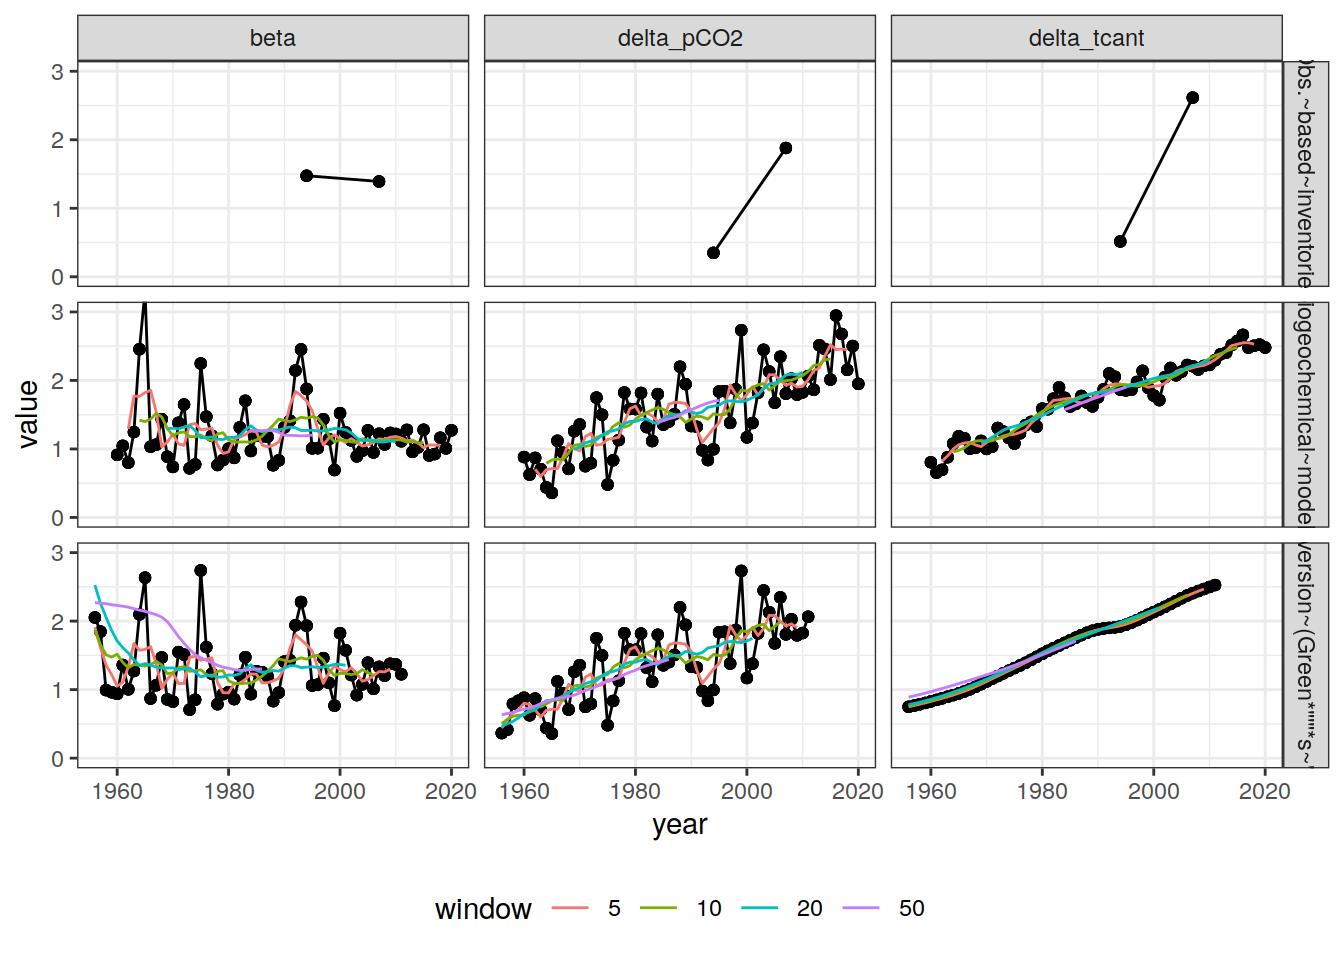
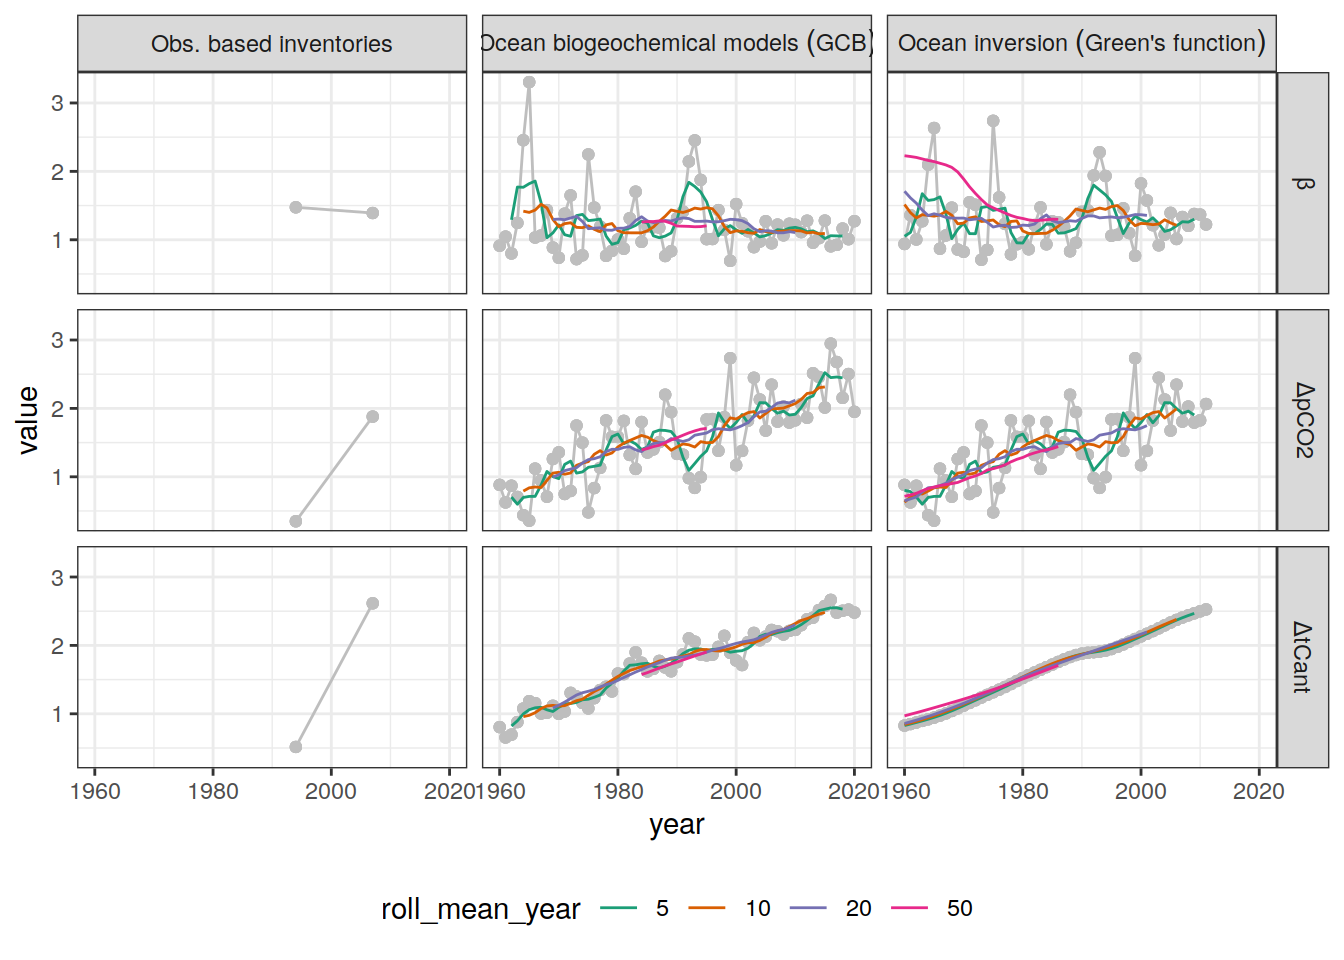
Build site.

diff --git a/docs/interior_storage.html b/docs/interior_storage.html
@@ -378,7 +378,7 @@ div.tocify {
 
 <h1 class="title toc-ignore">Ocean interior storage</h1>
 <h4 class="author">Jens Daniel Müller</h4>
-<h4 class="date">03 May, 2022</h4>
+<h4 class="date">10 May, 2022</h4>
 
 </div>
 
@@ -403,7 +403,7 @@ div.tocify {
 <div class="tab-content">
 <div id="summary" class="tab-pane fade in active">
 <p>
-<strong>Last updated:</strong> 2022-05-03
+<strong>Last updated:</strong> 2022-05-10
 </p>
 <p>
 <strong>Checks:</strong> <span class="glyphicon glyphicon-ok text-success" aria-hidden="true"></span> 7 <span class="glyphicon glyphicon-exclamation-sign text-danger" aria-hidden="true"></span> 0
@@ -494,16 +494,16 @@ This reproducible <a href="https://rmarkdown.rstudio.com">R Markdown</a> analysi
 <div class="panel panel-default">
 <div class="panel-heading">
 <p class="panel-title">
-<a data-toggle="collapse" data-parent="#workflowr-checks" href="#strongRepositoryversionstrongahrefhttpsgithubcomjensdanielmuelleroceancarbonsinkreviewtree8a99630607800fb4d62397154561920e9c61a00ctargetblank8a99630a"> <span class="glyphicon glyphicon-ok text-success" aria-hidden="true"></span> <strong>Repository version:</strong> <a href="https://github.com/jens-daniel-mueller/ocean_carbon_sink_review/tree/8a99630607800fb4d62397154561920e9c61a00c" target="_blank">8a99630</a> </a>
+<a data-toggle="collapse" data-parent="#workflowr-checks" href="#strongRepositoryversionstrongahrefhttpsgithubcomjensdanielmuelleroceancarbonsinkreviewtree472c2c1f393f71276952f22d1f2dc399d1948328targetblank472c2c1a"> <span class="glyphicon glyphicon-ok text-success" aria-hidden="true"></span> <strong>Repository version:</strong> <a href="https://github.com/jens-daniel-mueller/ocean_carbon_sink_review/tree/472c2c1f393f71276952f22d1f2dc399d1948328" target="_blank">472c2c1</a> </a>
 </p>
 </div>
[2 lines of base64/hex data omitted]
 <div class="panel-body">
 <p>
 Great! You are using Git for version control. Tracking code development and connecting the code version to the results is critical for reproducibility.
 </p>
 <p>
-The results in this page were generated with repository version <a href="https://github.com/jens-daniel-mueller/ocean_carbon_sink_review/tree/8a99630607800fb4d62397154561920e9c61a00c" target="_blank">8a99630</a>. See the <em>Past versions</em> tab to see a history of the changes made to the R Markdown and HTML files.
+The results in this page were generated with repository version <a href="https://github.com/jens-daniel-mueller/ocean_carbon_sink_review/tree/472c2c1f393f71276952f22d1f2dc399d1948328" target="_blank">472c2c1</a>. See the <em>Past versions</em> tab to see a history of the changes made to the R Markdown and HTML files.
 </p>
 <p>
 Note that you need to be careful to ensure that all relevant files for the analysis have been committed to Git prior to generating the results (you can use <code>wflow_publish</code> or <code>wflow_git_commit</code>). workflowr only checks the R Markdown file, but you know if there are other scripts or data files that it depends on. Below is the status of the Git repository when the results were generated:
@@ -551,6 +551,40 @@ Message
 </tr>
 </thead>
 <tbody>
+<tr>
+<td>
+Rmd
+</td>
+<td>
+<a href="https://github.com/jens-daniel-mueller/ocean_carbon_sink_review/blob/472c2c1f393f71276952f22d1f2dc399d1948328/analysis/interior_storage.Rmd" target="_blank">472c2c1</a>
+</td>
+<td>
+jens-daniel-mueller
+</td>
+<td>
+2022-05-10
+</td>
+<td>
+beta plots refined
+</td>
+</tr>
+<tr>
+<td>
+html
+</td>
+<td>
+<a href="https://rawcdn.githack.com/jens-daniel-mueller/ocean_carbon_sink_review/b9b71c3e27d1363cd6eca0cf0331bdb564bb397a/docs/interior_storage.html" target="_blank">b9b71c3</a>
+</td>
+<td>
+jens-daniel-mueller
+</td>
+<td>
+2022-05-03
+</td>
+<td>
+Build site.
+</td>
+</tr>
 <tr>
 <td>
 Rmd
@@ -3032,50 +3066,149 @@ rm(tcant_beta_zero)</code></pre>
   group_by(method) %&gt;% 
   arrange(year) %&gt;% 
   mutate(delta_year = year - lag(year),
-         delta_pCO2 = (pCO2 - lag(pCO2)) / delta_year,
-         delta_tcant = (tcant - lag(tcant)) / delta_year,
-         beta = delta_tcant/delta_pCO2) %&gt;% 
+         `Delta*pCO2` = (pCO2 - lag(pCO2)) / delta_year,
+         `Delta*tCant` = (tcant - lag(tcant)) / delta_year,
+         beta = `Delta*tCant`/`Delta*pCO2`) %&gt;% 
   ungroup() %&gt;% 
-  select(year, method, delta_pCO2, delta_tcant, beta)
+  select(year, method, `Delta*pCO2`, `Delta*tCant`, beta)
 
 
 tcant_beta_annual &lt;- tcant_beta_annual %&gt;% 
-  pivot_longer(delta_pCO2:beta,
+  pivot_longer(`Delta*pCO2`:beta,
                names_to = &quot;parameter&quot;,
                values_to = &quot;value&quot;)
 
-tcant_beta_annual &lt;- expand_grid(tcant_beta_annual, window = c(5,10,20,50)) 
+tcant_beta_annual &lt;- expand_grid(tcant_beta_annual, roll_mean_year = c(5,10,20,50)) 
 
 
 tcant_beta_annual &lt;- tcant_beta_annual %&gt;%
+  group_by(roll_mean_year, method, parameter) %&gt;%
   arrange(year) %&gt;%
-  group_by(method, parameter, window) %&gt;%
   mutate(
-    value_roll = rollmean(value, k = window, fill = NA)
+    value_roll = rollmean(value, k = roll_mean_year, fill = NA)
   ) %&gt;%
   ungroup()
 
 tcant_beta_annual %&gt;% 
-  mutate(window = as.factor(window)) %&gt;% 
-  filter(year &gt; 1955) %&gt;% 
+  mutate(roll_mean_year = as.factor(roll_mean_year)) %&gt;% 
+  filter(year &gt; 1959) %&gt;% 
   ggplot() +
-  geom_path(aes(year, value)) +
-  geom_point(aes(year, value)) +
-  geom_path(aes(year, value_roll, col = window)) +
-  coord_cartesian(ylim = c(0,3)) +
+  geom_path(aes(year, value), col = &quot;grey&quot;) +
+  geom_point(aes(year, value), col = &quot;grey&quot;) +
+  geom_path(aes(year, value_roll, col = roll_mean_year)) +
+  # coord_cartesian(ylim = c(0,3)) +
   theme(legend.position = &quot;bottom&quot;) +
-  facet_grid(method ~ parameter)</code></pre>
+  scale_color_brewer(palette = &quot;Dark2&quot;) +
+  facet_grid(parameter ~ method, labeller = label_parsed)</code></pre>
 <p><img src="figure/interior_storage.Rmd/beta_annual-1.png" width="672" style="display: block; margin: auto;" /></p>
-<pre class="r"><code>tcant_beta_annual %&gt;% 
-  mutate(window = as.factor(window)) %&gt;% 
+<p>
+<button type="button" class="btn btn-default btn-xs btn-workflowr btn-workflowr-fig" data-toggle="collapse" data-target="#fig-beta_annual-1">
+Past versions of beta_annual-1.png
+</button>
+</p>
+<div id="fig-beta_annual-1" class="collapse">
+<div class="table-responsive">
+<table class="table table-condensed table-hover">
+<thead>
+<tr>
+<th>
+Version
+</th>
+<th>
+Author
+</th>
+<th>
+Date
+</th>
+</tr>
+</thead>
+<tbody>
+<tr>
+<td>
+<a href="https://github.com/jens-daniel-mueller/ocean_carbon_sink_review/blob/b9b71c3e27d1363cd6eca0cf0331bdb564bb397a/docs/figure/interior_storage.Rmd/beta_annual-1.png" target="_blank">b9b71c3</a>
+</td>
+<td>
+jens-daniel-mueller
+</td>
+<td>
+2022-05-03
+</td>
+</tr>
+</tbody>
+</table>
+</div>
+</div>
+<pre class="r"><code>ggsave(here::here(&quot;output/Fig1a_beta_1959.pdf&quot;),
+    width = 10,
+    height = 7)
+
+
+tcant_beta_annual %&gt;% 
+  mutate(roll_mean_year = as.factor(roll_mean_year)) %&gt;% 
   ggplot() +
-  geom_path(aes(year, value)) +
-  geom_point(aes(year, value)) +
-  geom_path(aes(year, value_roll, col = window)) +
+  geom_path(aes(year, value), col = &quot;grey&quot;) +
+  geom_point(aes(year, value), col = &quot;grey&quot;) +
+  geom_path(aes(year, value_roll, col = roll_mean_year)) +
+  # coord_cartesian(ylim = c(0,3)) +
+  theme(legend.position = &quot;bottom&quot;) +
+  scale_color_brewer(palette = &quot;Dark2&quot;) +
+  facet_grid(parameter ~ method, labeller = label_parsed, scales = &quot;free_y&quot;)</code></pre>
+<p><img src="figure/interior_storage.Rmd/beta_annual-2.png" width="672" style="display: block; margin: auto;" /></p>
+<p>
+<button type="button" class="btn btn-default btn-xs btn-workflowr btn-workflowr-fig" data-toggle="collapse" data-target="#fig-beta_annual-2">
+Past versions of beta_annual-2.png
+</button>
+</p>
+<div id="fig-beta_annual-2" class="collapse">
+<div class="table-responsive">
+<table class="table table-condensed table-hover">
+<thead>
+<tr>
+<th>
+Version
+</th>
+<th>
+Author
+</th>
+<th>
+Date
+</th>
+</tr>
+</thead>
+<tbody>
+<tr>
+<td>
+<a href="https://github.com/jens-daniel-mueller/ocean_carbon_sink_review/blob/b9b71c3e27d1363cd6eca0cf0331bdb564bb397a/docs/figure/interior_storage.Rmd/beta_annual-2.png" target="_blank">b9b71c3</a>
+</td>
+<td>
+jens-daniel-mueller
+</td>
+<td>
+2022-05-03
+</td>
+</tr>
+</tbody>
+</table>
+</div>
+</div>
+<pre class="r"><code>ggsave(here::here(&quot;output/Fig1a_beta_1765.pdf&quot;),
+    width = 10,
+    height = 7)
+
+tcant_beta_annual %&gt;% 
+  mutate(roll_mean_year = as.factor(roll_mean_year)) %&gt;% 
+  ggplot() +
+  geom_path(aes(year, value), col = &quot;grey&quot;) +
+  geom_point(aes(year, value), col = &quot;grey&quot;) +
+  geom_path(aes(year, value_roll, col = roll_mean_year)) +
   coord_cartesian(ylim = c(0,3)) +
   theme(legend.position = &quot;bottom&quot;) +
-  facet_grid(method ~ parameter)</code></pre>
-<p><img src="figure/interior_storage.Rmd/beta_annual-2.png" width="672" style="display: block; margin: auto;" /></p>
+  scale_color_brewer(palette = &quot;Dark2&quot;) +
+  facet_grid(parameter ~ method, labeller = label_parsed, scales = &quot;free_y&quot;)</code></pre>
+<p><img src="figure/interior_storage.Rmd/beta_annual-3.png" width="672" style="display: block; margin: auto;" /></p>
+<pre class="r"><code>ggsave(here::here(&quot;output/Fig1a_beta_1765_yrange0-3.pdf&quot;),
+    width = 10,
+    height = 7)</code></pre>
 <pre class="r"><code>tcant_beta_period &lt;- tcant_beta %&gt;% 
   mutate(period = cut(year, c(1764, 1958, 2020)))
 
@@ -3085,6 +3218,43 @@ tcant_beta_period %&gt;%
   geom_smooth(method = &quot;lm&quot;, se = FALSE,
               aes(linetype = period))</code></pre>
 <p><img src="figure/interior_storage.Rmd/beta_1959-1.png" width="672" style="display: block; margin: auto;" /></p>
+<p>
+<button type="button" class="btn btn-default btn-xs btn-workflowr btn-workflowr-fig" data-toggle="collapse" data-target="#fig-beta_1959-1">
+Past versions of beta_1959-1.png
+</button>
+</p>
+<div id="fig-beta_1959-1" class="collapse">
+<div class="table-responsive">
+<table class="table table-condensed table-hover">
+<thead>
+<tr>
+<th>
+Version
+</th>
+<th>
+Author
+</th>
+<th>
+Date
+</th>
+</tr>
+</thead>
+<tbody>
+<tr>
+<td>
+<a href="https://github.com/jens-daniel-mueller/ocean_carbon_sink_review/blob/b9b71c3e27d1363cd6eca0cf0331bdb564bb397a/docs/figure/interior_storage.Rmd/beta_1959-1.png" target="_blank">b9b71c3</a>
+</td>
+<td>
+jens-daniel-mueller
+</td>
+<td>
+2022-05-03
+</td>
+</tr>
+</tbody>
+</table>
+</div>
+</div>
 <pre class="r"><code>library(broom)
 
 tcant_beta_period %&gt;%
@@ -3117,6 +3287,43 @@ tcant_beta_period %&gt;%
   geom_smooth(method = &quot;lm&quot;, se = FALSE,
               aes(linetype = period))</code></pre>
 <p><img src="figure/interior_storage.Rmd/beta_1994_2007-1.png" width="672" style="display: block; margin: auto;" /></p>
+<p>
+<button type="button" class="btn btn-default btn-xs btn-workflowr btn-workflowr-fig" data-toggle="collapse" data-target="#fig-beta_1994_2007-1">
+Past versions of beta_1994_2007-1.png
+</button>
+</p>
+<div id="fig-beta_1994_2007-1" class="collapse">
+<div class="table-responsive">
+<table class="table table-condensed table-hover">
+<thead>
+<tr>
+<th>
+Version
+</th>
+<th>
+Author
+</th>
+<th>
+Date
+</th>
+</tr>
+</thead>
+<tbody>
+<tr>
+<td>
+<a href="https://github.com/jens-daniel-mueller/ocean_carbon_sink_review/blob/b9b71c3e27d1363cd6eca0cf0331bdb564bb397a/docs/figure/interior_storage.Rmd/beta_1994_2007-1.png" target="_blank">b9b71c3</a>
+</td>
+<td>
+jens-daniel-mueller
+</td>
+<td>
+2022-05-03
+</td>
+</tr>
+</tbody>
+</table>
+</div>
+</div>
 <pre class="r"><code>library(broom)
 
 tcant_beta_period %&gt;%
